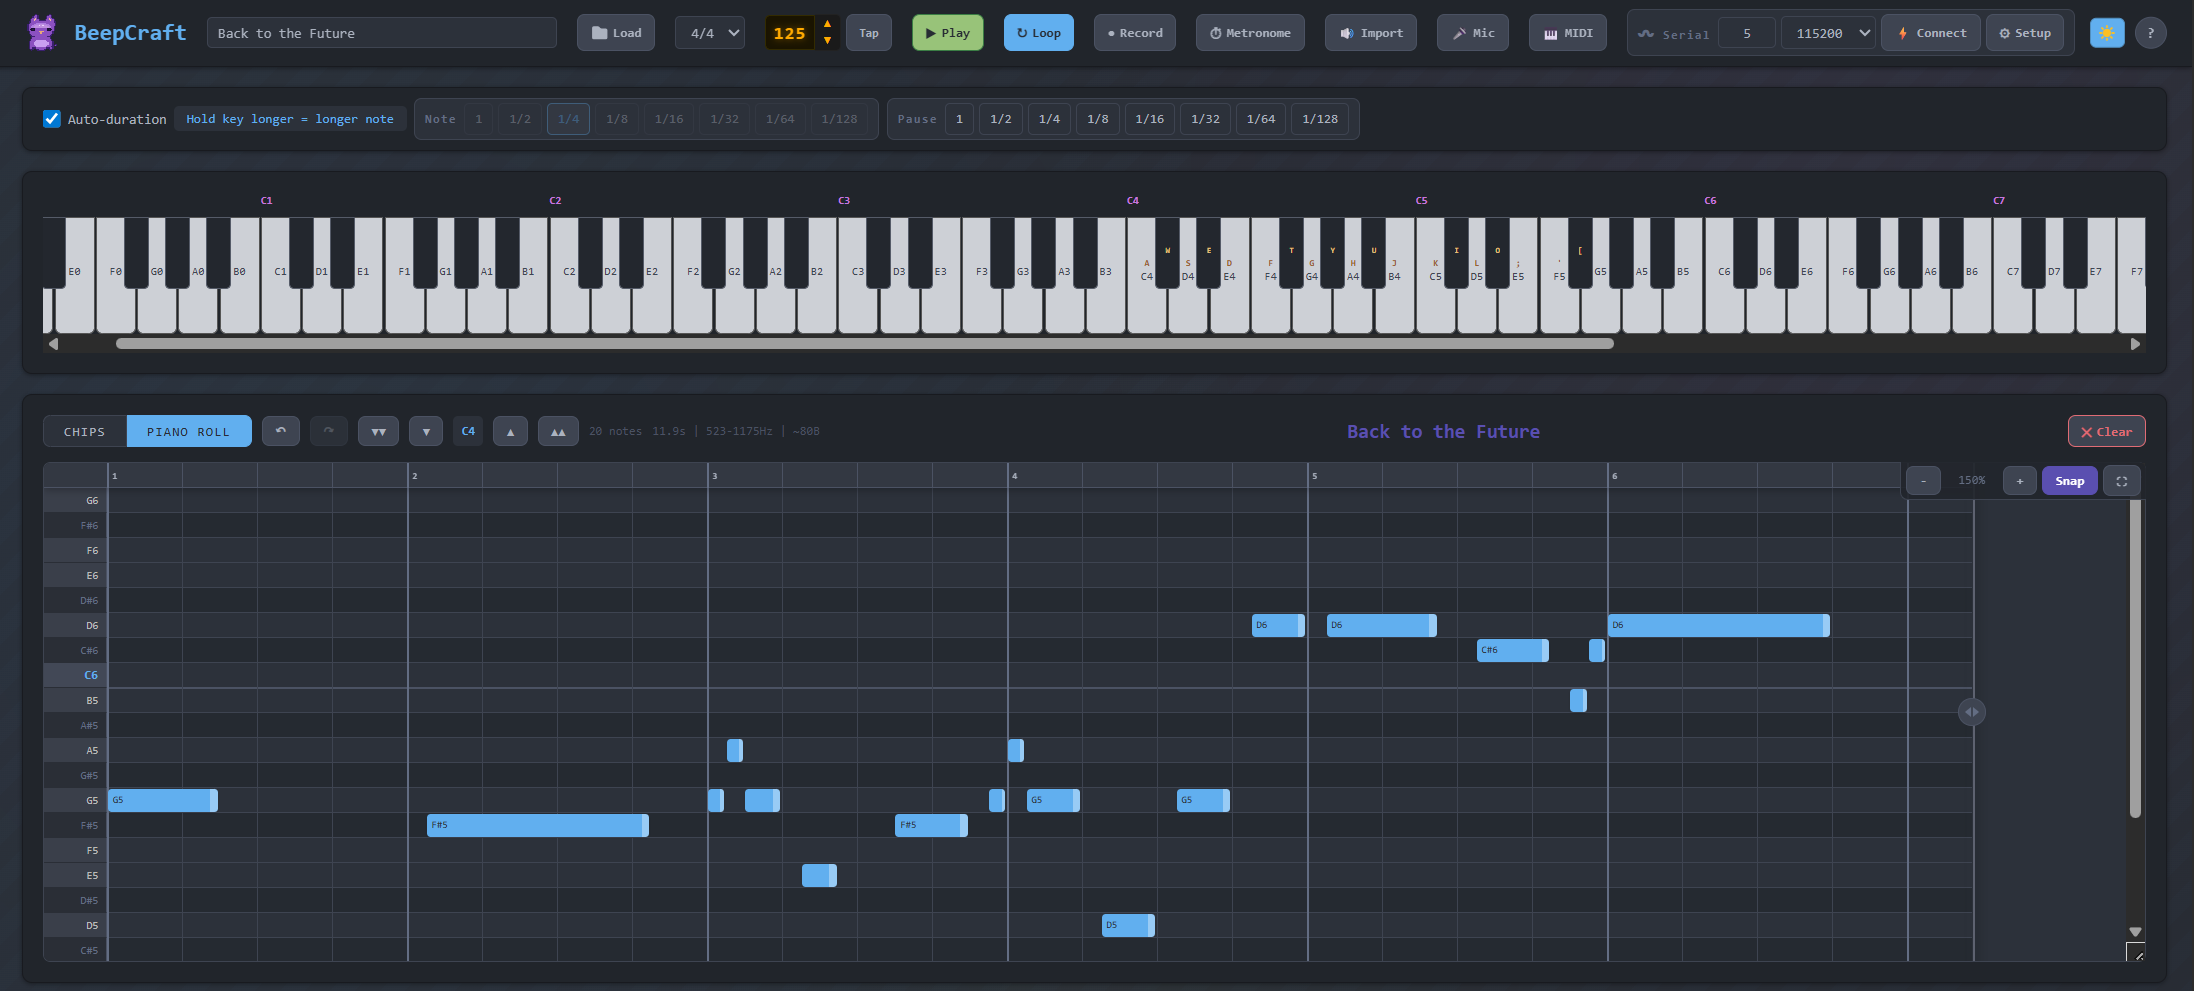
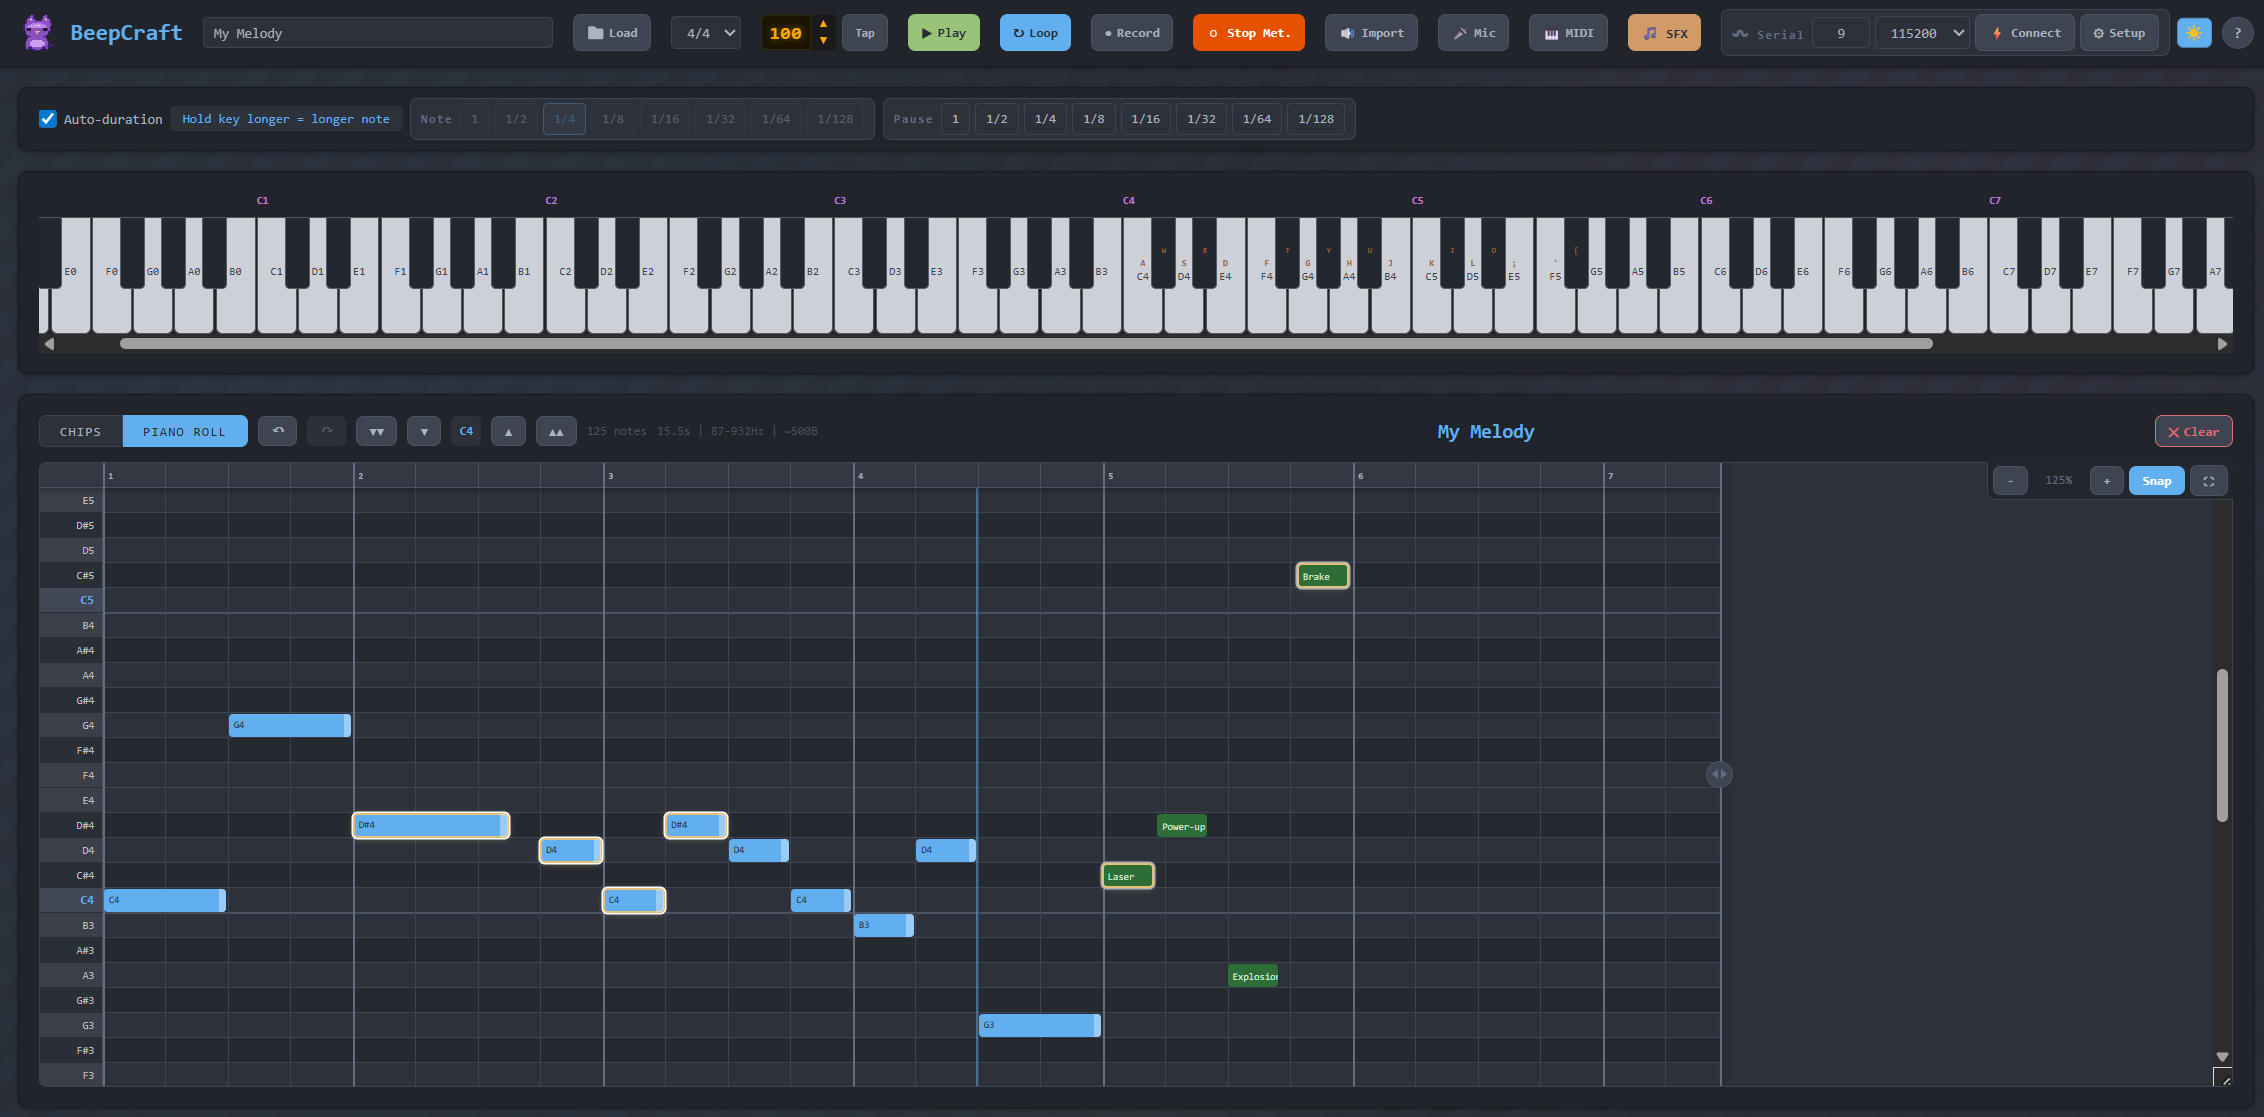
Fix melody title on clear, SFX transpose preview, textarea sizing
- Reset melody name to 'Melody' on clear instead of null
- Play SFX preview after octave/semitone transpose
- Fix textarea collapsing to 0px when empty
- Add SFX generator screenshot to README

diff --git a/beepcraft.html b/beepcraft.html
@@ -2161,6 +2161,7 @@ MP.parseRTTTL = function(rtttl) {
 MP._autoSizeTextarea = function(el) {
   if (!el) return;
   if (!el.offsetParent) return;
+  if (!el.value) { el.style.height = ''; return; }
   MP._keepScroll(function() {
     el.style.height = '0';
     el.style.height = Math.min(el.scrollHeight, 600) + 'px';
@@ -2710,7 +2711,7 @@ MP.clearAll = function() {
   MP.pushUndo(); MP.appState.seq = [];
   var tsBeats = MP.getTimeSigBeats();
   MP.appState.nextNoteStart = tsBeats * 6;
-  MP.appState.melodyName = null;
+  MP.appState.melodyName = 'Melody';
   MP.appState.prZoom = MP.ZOOM_DEFAULT;
   document.getElementById('pr-zoom-input').value = Math.round(MP.ZOOM_DEFAULT * 100) + '%';
   MP.appState.kbOctave = 4;
@@ -4258,6 +4259,7 @@ MP.initSfxDialog = function() {
     endFreqInput.value = MP._sfxGrainFreqs[MP._sfxGrainFreqs.length - 1];
     MP._sfxClearPresetActive();
     updateDisplayValues();
+    MP.previewSfx(MP.getSfxParams());
   }
 
   document.getElementById('sfx-oct-down').addEventListener('click', function() { transposeSfx(-12); });

diff --git a/js/ui.js b/js/ui.js
@@ -217,7 +217,7 @@ MP.clearAll = function() {
   MP.pushUndo(); MP.appState.seq = [];
   var tsBeats = MP.getTimeSigBeats();
   MP.appState.nextNoteStart = tsBeats * 6;
-  MP.appState.melodyName = null;
+  MP.appState.melodyName = 'Melody';
   MP.appState.prZoom = MP.ZOOM_DEFAULT;
   document.getElementById('pr-zoom-input').value = Math.round(MP.ZOOM_DEFAULT * 100) + '%';
   MP.appState.kbOctave = 4;

diff --git a/js/sfx.js b/js/sfx.js
@@ -1383,6 +1383,7 @@ MP.initSfxDialog = function() {
     endFreqInput.value = MP._sfxGrainFreqs[MP._sfxGrainFreqs.length - 1];
     MP._sfxClearPresetActive();
     updateDisplayValues();
+    MP.previewSfx(MP.getSfxParams());
   }
 
   document.getElementById('sfx-oct-down').addEventListener('click', function() { transposeSfx(-12); });

diff --git a/js/codegen.js b/js/codegen.js
@@ -1,6 +1,7 @@
 MP._autoSizeTextarea = function(el) {
   if (!el) return;
   if (!el.offsetParent) return;
+  if (!el.value) { el.style.height = ''; return; }
   MP._keepScroll(function() {
     el.style.height = '0';
     el.style.height = Math.min(el.scrollHeight, 600) + 'px';

diff --git a/README.md b/README.md
@@ -84,6 +84,8 @@ Connect a **passive** buzzer to your board. For 3-pin modules: VCC to 3.3V/5V, G
 
 ![RTTTL output](screenshots/03.png)
 
+![SFX Generator](screenshots/06.png)
+
 ![Serial Setup](screenshots/05.png)
 
 ![Keyboard shortcuts](screenshots/04.png)
